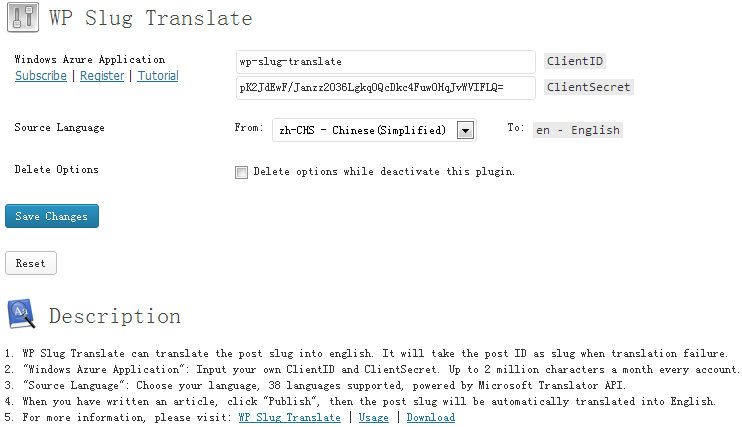
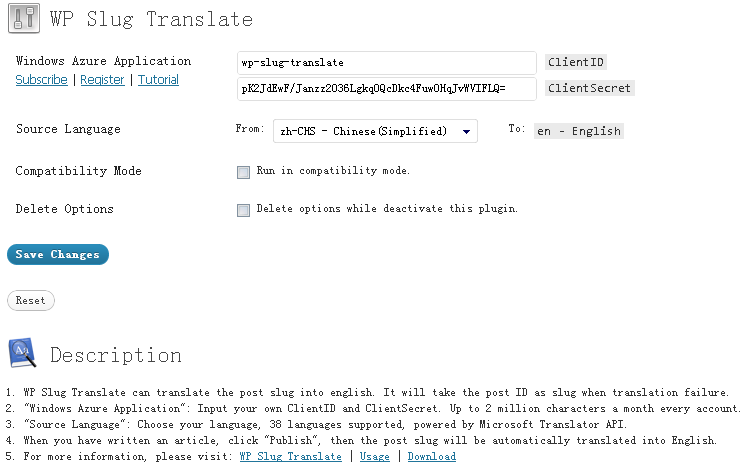
version 1.8.6

diff --git a/wp-slug-translate.php b/wp-slug-translate.php
@@ -3,7 +3,7 @@
 Plugin Name: WP Slug Translate
 Plugin URI: http://boliquan.com/wp-slug-translate/
 Description: WP Slug Translate can translate the post slug into English. It will take the post ID as slug when translation failure.
-Version: 1.8.5
+Version: 1.8.6
 Author: BoLiQuan
 Author URI: http://boliquan.com/
 Text Domain: WP-Slug-Translate
@@ -94,6 +94,8 @@ class WstBingTranslator extends WstHttpRequest
 
 }
 
+if(get_option("wp_slug_translate_compatibility")!='yes'){
+
 function wp_slug_translate($postid){
 	global $wpdb;
 	$sql = "SELECT post_title,post_name FROM $wpdb->posts WHERE ID = '$postid'";
@@ -124,10 +126,29 @@ function wp_slug_translate($postid){
 //add_action('edit_post', 'wp_slug_translate', 1);
 add_action('save_post', 'wp_slug_translate', 1);
 
+}else{
+
+function wp_slug_translate($postname){
+	$post_name = $postname;
+	$post_title = $_POST['post_title'];
+	
+	if( !empty($post_name) && !is_numeric($post_name) ) return $post_name;
+
+	$post_title = str_replace(array('_','/'),array(' ',' '),$post_title);
+	$wst_bing= new WstBingTranslator();
+	$wst_title = sanitize_title( $wst_bing->translate($post_title) );
+	
+	return $wst_title;
+}
+add_filter('name_save_pre', 'wp_slug_translate', 1);
+
+}
+
 function wp_slug_translate_activate(){
 	add_option('wp_slug_translate_clientid','wp-slug-translate');
 	add_option('wp_slug_translate_clientsecret','pK2JdEwF/Janzz2O36Lgkq0QcDkc4Fuw0HqJvWVIFLQ=');
 	add_option('wp_slug_translate_language','zh-CHS');
+	add_option('wp_slug_translate_compatibility','');
 	add_option('wp_slug_translate_deactivate','');
 }
 register_activation_hook( __FILE__, 'wp_slug_translate_activate' );
@@ -137,6 +158,7 @@ if(get_option("wp_slug_translate_deactivate")=='yes'){
 		delete_option('wp_slug_translate_clientid');
 		delete_option('wp_slug_translate_clientsecret');
 		delete_option('wp_slug_translate_language');
+		delete_option('wp_slug_translate_compatibility');
 		delete_option('wp_slug_translate_deactivate');
 	}
 	register_deactivation_hook( __FILE__, 'wp_slug_translate_deactivate' );

diff --git a/wp_slug_translate_admin.php b/wp_slug_translate_admin.php
@@ -7,6 +7,7 @@ function wp_slug_translate_register(){
 	register_setting('wst-settings','wp_slug_translate_clientid');
 	register_setting('wst-settings','wp_slug_translate_clientsecret');
 	register_setting('wst-settings','wp_slug_translate_language');
+	register_setting('wst-settings','wp_slug_translate_compatibility');
 	register_setting('wst-settings','wp_slug_translate_deactivate');
 }
 function wp_slug_translate_page(){
@@ -14,6 +15,7 @@ function wp_slug_translate_page(){
 		update_option('wp_slug_translate_clientid','wp-slug-translate');
 		update_option('wp_slug_translate_clientsecret','pK2JdEwF/Janzz2O36Lgkq0QcDkc4Fuw0HqJvWVIFLQ=');
 		update_option('wp_slug_translate_language','zh-CHS');
+		update_option('wp_slug_translate_compatibility','');
 		update_option('wp_slug_translate_deactivate','');
 	}
 	if(isset($_POST['wp_slug_translate_reset'])){
@@ -97,6 +99,17 @@ function wp_slug_translate_page(){
 			&nbsp;&nbsp;&nbsp;
 			To:
 			<code>en - English</code>
+		</td>
+	</tr>
+	<tr valign="top">
+		<th scope="row">
+			<?php _e('Compatibility Mode','WP-Slug-Translate'); ?>
+		</th>
+		<td>
+			<label>
+				<input type="checkbox" name="wp_slug_translate_compatibility" value="yes" <?php if(get_option("wp_slug_translate_compatibility")=='yes') echo 'checked="checked"'; ?> />
+				<?php _e('Run in compatibility mode.','WP-Slug-Translate'); ?>
+			</label>
 		</td>
 	</tr>
 	<tr valign="top">
